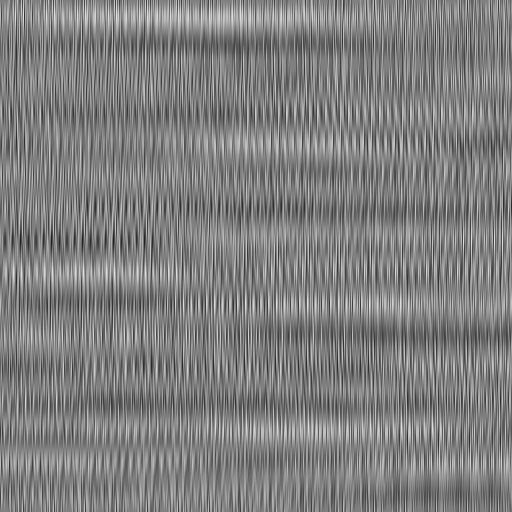
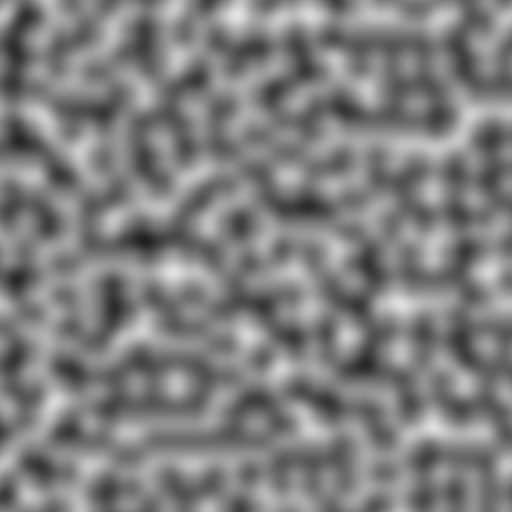
lerp4x, more balanced and better plot

diff --git a/scripts/wasm/worker2.cpp b/scripts/wasm/worker2.cpp
@@ -7,6 +7,7 @@
 #include <vector> // Added for std::vector
 #include <stdint.h>
 #include <filesystem>
+#include <xmmintrin.h>
 #define STB_IMAGE_WRITE_IMPLEMENTATION
 #include "../../include/stb_image_write.h"
 
@@ -34,53 +35,6 @@
     }
 #endif
 
-typedef float f32;
-typedef uint32_t u32;
-
-template<typename T> 
-class Vec2 
-{ 
-public: 
-    Vec2() : x(T(0)), y(T(0)) {} 
-    Vec2(T xx, T yy) : x(xx), y(yy) {} 
-    Vec2 operator * (const T &r) const { return Vec2(x * r, y * r); } 
-    T x, y; 
-    f32 length2 () { return x*x + y*y; }
-    f32 length () { return sqrtf(length2()); }
-}; 
-
-template<typename T> 
-class Vec3 
-{ 
-public: 
-    Vec3() : x(T(0)), y(T(0)), z(T(0)) {} 
-    Vec3(T xx, T yy, T zz) : x(xx), y(yy), z(zz) {} 
-    Vec3 operator * (const T &r) const { return Vec3(x * r, y * r, z * r); } 
-    T x, y, z; 
-    f32 length3 () { return x*x + y*y + z*z; }
-    f32 length () { return sqrtf(length3()); }
-}; 
-
-typedef Vec3<f32> Vec3f; 
-
-inline
-f32 lerp(const f32 &t, const f32 &a, const f32 &b) { return a + t * (b-a); }
-
-inline
-f32 quintic(const f32 &t) { return t * t * t * (t * (t * 6 - 15) + 10); }
-
-// calculates dot product with vector of the regular tetrahedron
-f32 gradient (uint8_t hash, f32 x, f32 y, f32 z) {
-
-    int h = hash & 15;
-    f32 u = h < 8 ? x : y;
-    f32 v = h < 4 ? y : (h == 12 || h == 14 ? x : z);
-    // if h even, if h is 2 or 3 mod 4
-    return ((h & 1) == 0 ? u : -u) + ((h & 2) == 0 ? v : -v); 
-}
-
-static const unsigned kMaxTableSize = 256; 
-static const unsigned kMaxTableSizeMask = kMaxTableSize - 1;
 // only works for 512 for now
 unsigned int permutation[512] = 
 {
@@ -112,6 +66,97 @@ unsigned int permutation[512] =
     49,192,214, 31,181,199,106,157,184, 84,204,176,115,121,50,45,127, 4,150,254,
     138,236,205,93,222,114,67,29,24,72,243,141,128,195,78,66,215,61,156,180
 };
+
+typedef float f32;
+typedef uint32_t u32;
+static const unsigned kMaxTableSize = 256; 
+static const unsigned kMaxTableSizeMask = kMaxTableSize - 1;
+
+// different representations of the same thing
+union f32_4x
+{
+    __m128 sse;
+    f32 E[4];
+};
+
+f32_4x F32_4X(f32 A, f32 B, f32 C, f32 D) {
+    // set backwards
+    f32_4x result = {{ _mm_set_ps(D,C,B,A) }};
+    return result;
+}
+
+f32_4x F32_4X(f32 A) {
+    // set backwards
+    f32_4x result = {{ _mm_set_ps1(A) }};
+    return result;
+}
+
+inline f32_4x
+operator+ (f32_4x A, f32_4x B)
+{
+    f32_4x result = {{ _mm_add_ps(A.sse, B.sse) }};
+    return result;
+}
+
+inline f32_4x
+operator- (f32_4x A, f32_4x B)
+{
+    f32_4x result = {{ _mm_sub_ps(A.sse, B.sse) }};
+    return result;
+}
+
+
+inline f32_4x
+operator* (f32_4x A, f32_4x B)
+{
+    f32_4x result = {{ _mm_mul_ps(A.sse, B.sse) }};
+    return result;
+}
+
+template<typename T> 
+class Vec2 
+{ 
+public: 
+    Vec2() : x(T(0)), y(T(0)) {} 
+    Vec2(T xx, T yy) : x(xx), y(yy) {} 
+    Vec2 operator * (const T &r) const { return Vec2(x * r, y * r); } 
+    T x, y; 
+    f32 length2 () { return x*x + y*y; }
+    f32 length () { return sqrtf(length2()); }
+}; 
+
+template<typename T> 
+class Vec3 
+{ 
+public: 
+    Vec3() : x(T(0)), y(T(0)), z(T(0)) {} 
+    Vec3(T xx, T yy, T zz) : x(xx), y(yy), z(zz) {} 
+    Vec3 operator * (const T &r) const { return Vec3(x * r, y * r, z * r); } 
+    T x, y, z; 
+    f32 length3 () { return x*x + y*y + z*z; }
+    f32 length () { return sqrtf(length3()); }
+}; 
+
+typedef Vec2<f32> Vec2f; 
+typedef Vec3<f32> Vec3f; 
+
+inline
+f32 lerp(const f32 &t, const f32 &a, const f32 &b) { return a + t * (b-a); }
+
+f32_4x lerp_4x(const f32_4x &t, const f32_4x &a, const f32_4x &b) { return a + t * (b-a); }
+
+inline
+f32 quintic(const f32 &t) { return t * t * t * (t * (t * 6 - 15) + 10); }
+
+// calculates dot product with vector of the regular tetrahedron
+f32 gradient (uint8_t hash, f32 x, f32 y, f32 z) {
+
+    int h = hash & 15;
+    f32 u = h < 8 ? x : y;
+    f32 v = h < 4 ? y : (h == 12 || h == 14 ? x : z);
+    // if h even, if h is 2 or 3 mod 4
+    return ((h & 1) == 0 ? u : -u) + ((h & 2) == 0 ? v : -v); 
+}
 
 f32 perlinNoise(const Vec3f &p) 
 {
@@ -152,16 +197,24 @@ f32 perlinNoise(const Vec3f &p)
     f32 l5 = lerp(v, l1, l2);
     f32 l6 = lerp(v, l3, l4);
 
+    // f32_4x u_4x = F32_4X(u);
+    // f32_4x LHS = F32_4X(a, c, e, g);
+    // f32_4x RHS = F32_4X(b, d, f, h);
+
+    // f32_4x l1234 = lerp_4x(u_4x, LHS, RHS);
+
+    // f32 l5 = lerp(v, l1234.E[0], l1234.E[1]);
+    // f32 l6 = lerp(v, l1234.E[2], l1234.E[3]);
+
     return lerp(w, l5, l6);
 }
 
-void perlinNoise_8x(f32 x, f32 y, f32 z, f32 *data) 
+void perlinNoise_8x(f32 x, f32 y, f32 z, f32 *data, f32 frequency) 
 {
     for (u32 i=0; i<8; i++) {
-        data[i] = perlinNoise(Vec3f(x+i,y,z));
+        data[i] = perlinNoise(Vec3f(x+i,y,z)*frequency);
     }
 }
-
 
 int main(int argc, char **argv) 
 { 
@@ -172,7 +225,7 @@ int main(int argc, char **argv)
 
     // generate value noise
     f32 frequency = 1/32.; 
-    std::vector<int> cycleCounts(imageHeight*imageWidth, 0);
+    std::vector<long long> cycleCounts(imageHeight*imageWidth, 0);
 
     // for (unsigned j = 0; j < imageHeight; ++j) { 
     //     for (unsigned i = 0; i < imageWidth; ++i) { 
@@ -186,19 +239,23 @@ int main(int argc, char **argv)
     for (unsigned j = 0; j < imageHeight; ++j) { 
         for (unsigned i = 0; i < imageWidth; i+=8) { 
             int start = rdtsc();
-            // generate a f32 in the range [0:1]
-            // noiseMap[j * imageWidth + i] = perlinNoise(Vec3f(i, 0, j) * frequency);
-            perlinNoise_8x(i* frequency, 0* frequency, j* frequency, noiseMap+(j * imageWidth + i));
-            cycleCounts[j * imageWidth + i] = (static_cast<int>(rdtsc()-start));
+            perlinNoise_8x(i, 0.0, j, noiseMap+(j * imageWidth + i), frequency);
+            cycleCounts[(j * imageWidth + i)/8] = (static_cast<int>(rdtsc()-start));
         } 
     } 
 
     long long sumCycles = 0;
+    long long min = cycleCounts[0];
+    long long max = cycleCounts[0];
     for (auto cycles : cycleCounts) {
         sumCycles += cycles;
+        min = std::min(min, cycles);
+        max = std::max(max, cycles);
     }
 
     std::cout << "cycle count: " << sumCycles << " cycles" << std::endl;
+    std::cout << "min cycle count in a call: " << min << " cycles" << std::endl;
+    std::cout << "max cycle count in a call: " << max << " cycles" << std::endl;
     std::cout << "average cycle count per call: " << sumCycles / (imageWidth * imageHeight) << " cycles" << std::endl;
 
     // Save cycle counts to a file for plotting
